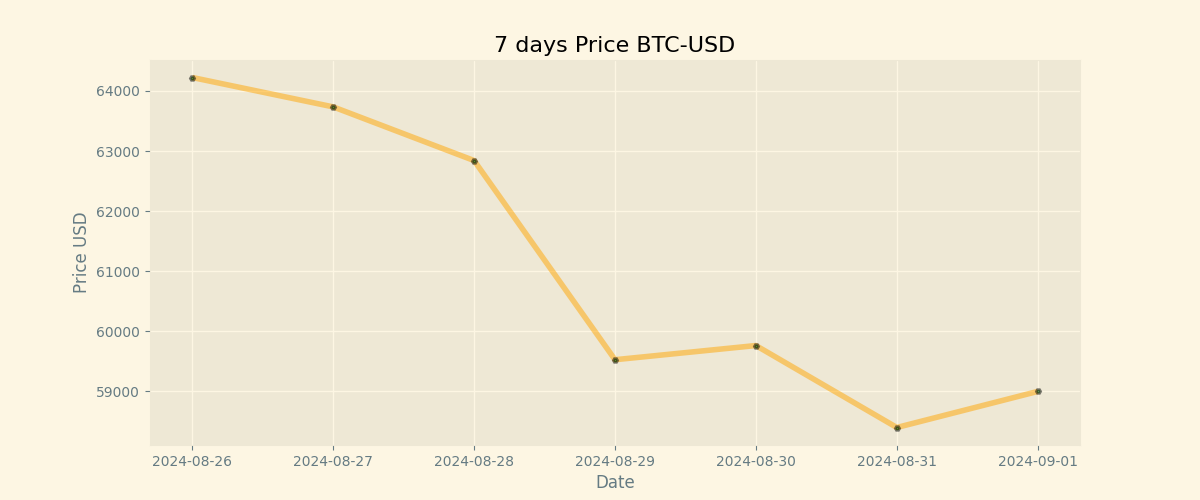
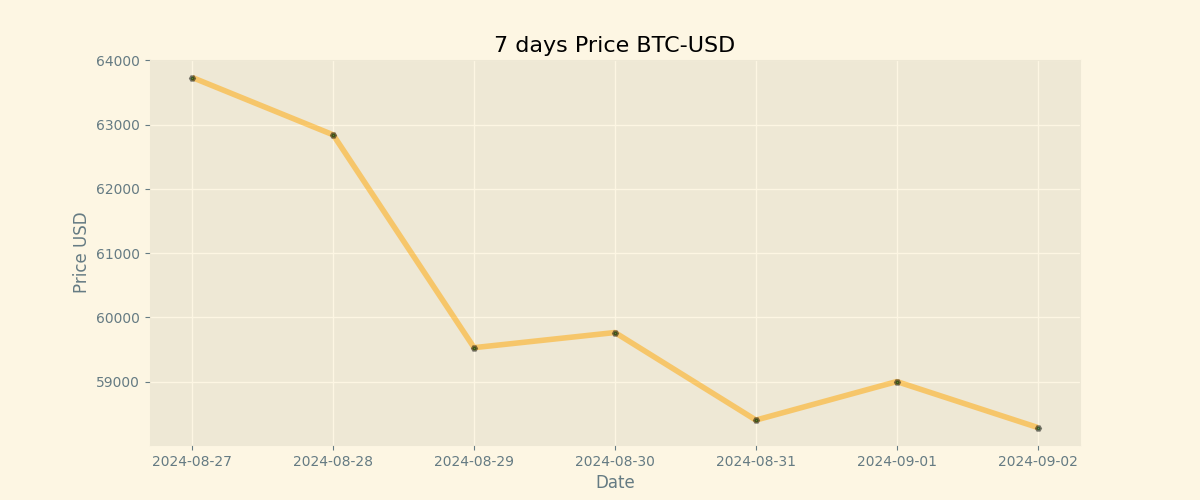
Duty Updates 2024-09-02

diff --git a/README.md b/README.md
@@ -9,8 +9,8 @@
 
 | Currency | Price           |
 | -------- | --------------- |
-| **BTC**  | **$ 59000.0** |
-| **ETH**  | **$ 2463.01** |
+| **BTC**  | **$ 58284.57** |
+| **ETH**  | **$ 2470.88** |
 
 ## BTC chart
 
